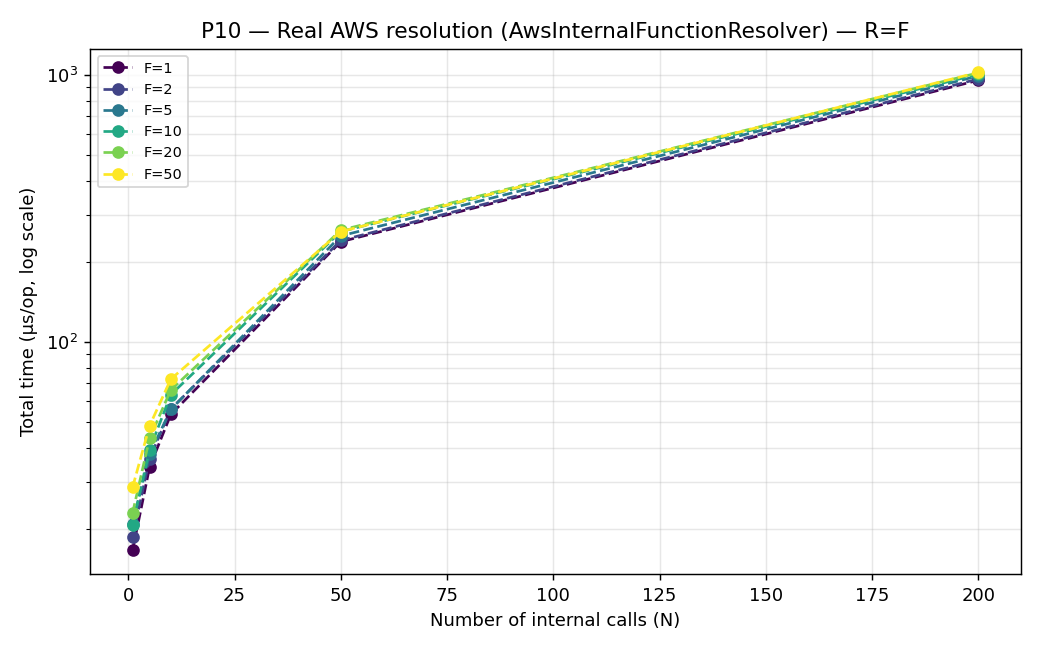
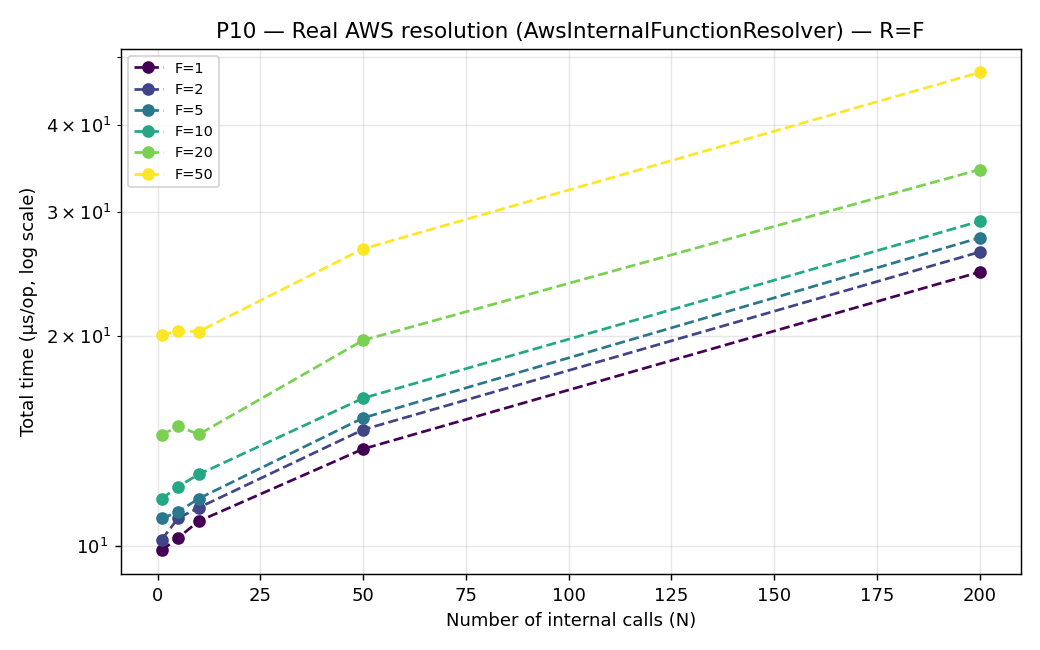
Re-measure P10 and P11 against the silenced resolvers
The two experiments that exercise the production resolvers no longer
describe the code, so they were re-run with -f 3 on the same idle
machine, 24 minutes, and Chapter 7 is rewritten around the result:
29.1 us (AWS) and 81.3 us (GCP) for 200 internal calls against a
ten-function registry, where the printing resolvers cost 1006 and 1344.

The comparison between the providers changes meaning. It was attributed
to logging; with the console silent, GCP is still about four times more
expensive per call (0.35 us against 0.07-0.14) because splitUrl parses
the resolved URL with java.net.URI on every call, where the AWS resolver
only concatenates a prefix onto the ARN it already holds. The reference
resolver of P3 and P8 does the same parsing and sits between the two, at
0.22 us, which closes the explanation.

P10 and P11 now come from a second measurement session. The methodology
says so and shows the two sessions agree where they overlap: the N=1
column of both tables reproduces the per-read cost P6 measured earlier
(9.9 and 10.4 us at R=1 against 10.5; 20.0 and 19.9 at R=50 against
18.3). Threats to Validity states the limit that comparing them with P8
crosses that boundary.

Chapter 8's answer to RQ2 carries the new figures.

Claude-Session: https://claude.ai/code/session_01L8bXyxExCe5htXbCK9fRpz

diff --git a/dissertation/Chapters/chapter7.tex b/dissertation/Chapters/chapter7.tex
@@ -117,11 +117,17 @@ report what the test doubles assume (Section~\ref{sec:eval-threats}).
 Benchmarks were implemented with the Java Microbenchmark Harness (JMH) 1.37, using
 \texttt{AverageTime} mode with results reported in microseconds per operation ($\mu$s/op). Each
 measured value is consumed through a \texttt{Blackhole} to prevent dead-code elimination by the
-JIT compiler. Every figure reported in this chapter comes from one suite run, executed in a single
-session with three JVM forks, three warm-up iterations and five measurement iterations of one
-second each (\texttt{-f 3 -wi 3 -i 5 -w 1 -r 1}); each value is therefore the mean of fifteen
-measured iterations across three JVMs, of already-JIT-compiled code. Values from different
-experiments are directly comparable, since they share the run.
+JIT compiler. Every figure reported in this chapter was measured with three JVM forks, three
+warm-up iterations and five measurement iterations of one second each
+(\texttt{-f 3 -wi 3 -i 5 -w 1 -r 1}), so each value is the mean of fifteen measured iterations
+across three JVMs, of already-JIT-compiled code. All experiments but two come from one run of the
+whole suite. The exceptions are P10 and P11, which were re-measured later the same evening, on the
+same idle machine, after the change to the production resolvers that \S\ref{sec:eval-real-resolvers}
+describes; the rest of the suite does not exercise those classes and was left as measured. The two
+sessions agree where they can be compared: the $N{=}1$ column of P10 and P11, which is one registry
+read and almost nothing else, reproduces the per-read cost that P6 measured in the first session
+($9.9$ and $10.4\,\mu$s at $R{=}1$ against P6's $10.5\,\mu$s; $20.0$ and $19.9\,\mu$s at $R{=}50$
+against P6's $18.3\,\mu$s).
 
 \paragraph{Caveat on absolute values.}
 Measurements were taken on an Apple Silicon laptop running macOS, otherwise idle but not a
@@ -366,38 +372,43 @@ Neither experiment reaches a provider: on AWS the inspector is a local fake that
 registered function, and on GCP the registry holds first-generation \texttt{cloudfunctions.net}
 URLs, so the resolver short-circuits before any Cloud Run call
 (\S\ref{subsec:store-internals}). What both measure is therefore the local part of the cascade.
-The result has the same shape as the already-optimized reference implementation --- cost dominated
-by $N$, growing only mildly with $F$ --- but the per-call constant is an order of magnitude larger:
-about $4.7\,\mu$s per call on AWS and $7.1\,\mu$s on GCP, against the $0.22\,\mu$s that P8's
-optimized path pays for the same snapshot lookup in the same run. The extra work is not the
-registry read, which happens once, but what each production resolver does per call: the validation
-step, and a progress line printed to the console.
+The result has the same shape as the already-optimized reference implementation: a cost that is one
+registry read plus a small constant per call. Reading down the $N{=}1$ column gives the read, which
+grows with $F$ because $R{=}F$; reading along a row gives the per-call work, $0.07$--$0.14\,\mu$s on
+AWS and about $0.35\,\mu$s on GCP. Resolving a 200-call workflow against a registry of 10 functions
+costs $29.1\,\mu$s on AWS and $81.3\,\mu$s on GCP.
 
-That console output is the larger part, and the gap between the two providers is what shows it. On
-the measured path the AWS resolver prints two lines per call and the GCP resolver three, and the
-measured difference --- $2.4\,\mu$s per call --- is almost exactly one line. Attributing about
-$2.3\,\mu$s to each printed line leaves roughly the $0.2\,\mu$s of resolution work that P3
-measures, which accounts for both figures. P10 and P11 therefore quantify the production resolvers
-\emph{as they behave today}, console output included; they are not a measurement of resolution
-logic alone, and the difference between the providers is a difference in logging, not in the
-cascade (\S\ref{sec:eval-threats}).
+An earlier version of these two experiments measured something else. Until this evaluation was
+repeated, both resolvers printed two or three progress lines to the console for every call they
+resolved, inside the method being measured, and that console output was about 95\% of the reported
+time: the same points cost $1\,006\,\mu$s (AWS) and $1\,344\,\mu$s (GCP). Moving those per-call
+messages to \texttt{logger.debug}, which the default logging configuration does not print, produced
+the figures above without changing what the resolvers do. The measurement is reported here because
+the mistake is easy to repeat: an instrumented method measures its instrumentation, and a
+per-call console write costs an order of magnitude more than the resolution it announces.
+
+What remains is a real difference between the providers, not a logging artifact. The AWS resolver
+binds a call by concatenating a prefix onto the ARN it already holds; the GCP resolver parses the
+resolved URL with \texttt{java.net.URI} and rebuilds host and path from it, once per call. The
+reference resolver of P3 and P8 does that same parsing and sits between the two, at
+$0.22\,\mu$s per call, which is what places AWS below it and GCP above it.
 
 \begin{table}[htbp]
   \centering
   \caption{P10 --- AWS provider: resolution time ($\mu$s) of the real resolver
-  (\texttt{Aws\allowbreak Internal\allowbreak Function\allowbreak Resolver}), $R{=}F$, after the
-  single-read optimization was propagated into it.}
+  (\texttt{Aws\allowbreak Internal\allowbreak Function\allowbreak Resolver}), $R{=}F$, with the
+  single-read optimization and without per-call console output.}
   \label{tab:eval-p10}
   \begin{tabular}{lrrrrr}
     \hline
     $F\backslash N$ & 1 & 5 & 10 & 50 & 200 \\
     \hline
-    1  & 16.6 & 34.0 & 53.6 & 238 & 955    \\
-    2  & 18.6 & 36.5 & 56.1 & 240 & 966    \\
-    5  & 20.8 & 38.0 & 55.9 & 250 & 992    \\
-    10 & 20.7 & 39.6 & 63.5 & 259 & 1\,006 \\
-    20 & 22.9 & 43.6 & 66.1 & 262 & 1\,018 \\
-    50 & 28.6 & 48.5 & 72.6 & 259 & 1\,022 \\
+    1  & 9.9  & 10.3 & 10.9 & 13.8 & 24.6 \\
+    2  & 10.2 & 11.0 & 11.4 & 14.7 & 26.3 \\
+    5  & 11.0 & 11.2 & 11.7 & 15.3 & 27.6 \\
+    10 & 11.7 & 12.2 & 12.7 & 16.3 & 29.1 \\
+    20 & 14.4 & 14.8 & 14.4 & 19.7 & 34.5 \\
+    50 & 20.0 & 20.3 & 20.3 & 26.6 & 47.5 \\
     \hline
   \end{tabular}
 \end{table}
@@ -405,19 +416,19 @@ cascade (\S\ref{sec:eval-threats}).
 \begin{table}[htbp]
   \centering
   \caption{P11 --- GCP provider: resolution time ($\mu$s) of the real resolver
-  (\texttt{Workflow\allowbreak Internal\allowbreak Function\allowbreak Resolver}), $R{=}F$, after
-  the single-read optimization was propagated into it.}
+  (\texttt{Workflow\allowbreak Internal\allowbreak Function\allowbreak Resolver}), $R{=}F$, with
+  the single-read optimization and without per-call console output.}
   \label{tab:eval-p11}
   \begin{tabular}{lrrrrr}
     \hline
     $F\backslash N$ & 1 & 5 & 10 & 50 & 200 \\
     \hline
-    1  & 20.7 & 49.7 & 74.9 & 364 & 1\,439 \\
-    2  & 20.9 & 48.9 & 74.5 & 360 & 1\,445 \\
-    5  & 21.5 & 49.6 & 77.4 & 354 & 1\,376 \\
-    10 & 20.5 & 46.1 & 74.9 & 335 & 1\,344 \\
-    20 & 23.8 & 50.4 & 80.4 & 344 & 1\,400 \\
-    50 & 29.8 & 58.0 & 86.7 & 345 & 1\,377 \\
+    1  & 10.4 & 12.1 & 13.9 & 27.9 & 83.3 \\
+    2  & 10.6 & 11.9 & 13.8 & 27.5 & 78.8 \\
+    5  & 11.3 & 12.7 & 14.1 & 28.4 & 79.8 \\
+    10 & 12.1 & 13.4 & 15.1 & 28.8 & 81.3 \\
+    20 & 14.4 & 15.5 & 16.8 & 31.6 & 84.4 \\
+    50 & 19.9 & 20.9 & 22.8 & 36.8 & 91.3 \\
     \hline
   \end{tabular}
 \end{table}
@@ -789,10 +800,10 @@ call-times-registry-size product, reducing resolution to one read of the registr
 $0.22\,\mu$s per internal call, a speedup of $200\times$ in the worst corner measured
 (P7, P8, P9) --- a full \emph{identify (P3/P6) $\rightarrow$ fix $\rightarrow$ quantify (P7)} loop.
 Third, this optimization has since been propagated to the production resolvers (P10, P11), which
-now show the same dominated-by-$N$ shape as the optimized reference path rather than the
-call-times-registry-size cost they used to pay; their per-call constant is an order of magnitude
-larger, but that difference is the progress line each resolver prints per call, not resolution
-work.
+now show the same one-read-plus-a-constant shape as the optimized reference path rather than the
+call-times-registry-size cost they used to pay: $29\,\mu$s (AWS) and $81\,\mu$s (GCP) for a
+200-call workflow. The difference between the two providers is the per-call URL parsing the GCP
+resolver performs and the AWS one does not.
 Fourth, the AWS agnostic packaging layer adds negligible size (S1). Fifth, resolution cost tracks
 the number of internal calls rather than the workflow's total call count: external calls add only
 the shared tree-traversal cost, never a registry lookup (P15, P16). Sixth, neither nesting depth
@@ -826,12 +837,12 @@ points whose intervals are wide are identified where they appear and are not use
 claim. File I/O dominates several experiments, so storage speed, not processor speed, is the
 hardware factor these figures are most sensitive to.
 
-A second limit is that the production resolvers were measured as they behave today, printing a
-progress line per resolved call. In P10 and P11 that console output accounts for most of the
-per-call cost --- around $2.3\,\mu$s per printed line, against $0.22\,\mu$s of resolution work ---
-so those two experiments should be read as the cost of the resolvers in their current form, not as
-the cost of resolution. Silencing the output, or routing it through the logger already present in
-both classes, would bring them close to the reference path of P8.
+A second limit is one of provenance. P10 and P11 come from a second measurement session, run after
+the per-call console output was removed from both resolvers, while every other experiment comes
+from the earlier run of the same evening. The two sessions agree on the quantity they share --- the
+cost of one registry read (\S\ref{sec:eval-methodology}) --- but the comparison between P10, P11
+and the reference path of P8 crosses that boundary and should be read as an order-of-magnitude
+comparison rather than an exact one.
 
 The evaluation is also intentionally local-only: it quantifies the resolution and packaging
 overhead, not the end-to-end cloud deployment latency, which depends on provider-side behaviour

diff --git a/dissertation/Chapters/chapter8.tex b/dissertation/Chapters/chapter8.tex
@@ -49,10 +49,9 @@ The two research questions of Section~\ref{sec:int_objectives} are answered as f
   regions (Section~\ref{sec:eval-correctness}). The evidence comes from unit tests that simulate
   the provider, and on GCP bindings to first-generation Cloud Functions are not validated live.
   \item \textbf{RQ2 (overhead)} --- small. In the production resolvers, resolving a workflow of 200
-  internal calls takes about one millisecond locally, growing linearly with the number of internal
-  calls, while the registry is read once per deployment
-  (Section~\ref{sec:eval-discussion}); the reference resolver, which does not print a progress line
-  per call, does the same work in $55\,\mu$s. These figures exclude the provider calls that
+  internal calls against a registry of ten functions takes $29\,\mu$s on AWS and $81\,\mu$s on GCP,
+  growing linearly with the number of internal calls, while the registry is read once per
+  deployment (Section~\ref{sec:eval-discussion}). These figures exclude the provider calls that
   validation, discovery and deployment make, which are counted in
   Section~\ref{sec:eval-api-calls}.
 \end{itemize}

diff --git a/TODO.md b/TODO.md
@@ -138,9 +138,10 @@ drift as text is edited, so search for the quoted phrases.
       3. **Never run it without that include list.** `BenchmarkAmazonDeployment` calls
          `createStateMachine` and `BenchmarkGoogleDeployment` calls `deploy` — they create real
          resources on AWS/GCP.
-      4. **Filter stdout**: `| grep --line-buffered -E '^#|^Iteration|^Result|^Benchmark'`. The
-         resolvers `println` on every resolved call, so an unfiltered log grows ~1 GB/min (it hit
-         2.1 GB in one minute before being killed).
+      4. **Filter stdout**: `| grep --line-buffered -E '^#|^Iteration|^Result|^Benchmark'`. Já não é
+         crítico desde 2026-09-12 (os resolvers deixaram de imprimir por chamada), mas antes disso um
+         log não filtrado crescia ~1 GB/min (chegou a 2,1 GB num minuto antes de ser morto), por isso
+         mantém o filtro.
       5. JMH writes the CSV only when the whole run ends, so an interrupted run leaves nothing.
          Write it to a scratch path and only copy into `benchmark/results/` once it is complete,
          so the current CSVs survive a failed attempt.
@@ -149,10 +150,19 @@ drift as text is edited, so search for the quoted phrases.
       providers — o resolver AWS imprime 2 linhas por chamada e o GCP 3, e a diferença medida
       (2,4 µs/chamada) é exatamente uma linha. Está dito no parágrafo P10/P11 e nos "Threats to
       Validity". Nota: P3 e P8–P19 usam o `OptimizedEndpointResolver` do módulo de benchmarks, que
-      **não** imprime, por isso só P10/P11 são afetados. **Por decidir (a pedir ao utilizador):**
-      silenciar os `println` dos resolvers de produção, ou passá-los para o `logger` que ambas as
-      classes já têm, aproximaria P10/P11 do caminho de referência do P8 — é alterar código de
-      produção.
+      **não** imprime, por isso só P10/P11 foram afetados.
+- [x] **Resolvido 2026-09-12:** as mensagens por chamada dos dois resolvers de produção passaram de
+      `println`/`logger.info` para `logger.debug` (que ao nível INFO por omissão nem avalia o
+      lambda); as mensagens raras — descoberta por regiões, deployment QuickFaaS, drift, erros —
+      continuam a ser impressas. P10/P11 foram re-medidos com `-f 3` (24 min) e caíram de 1006→29,1 µs
+      (AWS) e 1344→81,3 µs (GCP) em F=10/N=200. Os 45 testes dos resolvers continuam a passar.
+      **Consequência a lembrar:** P10/P11 passam a vir de uma segunda sessão de medição; está dito na
+      Metodologia e nos "Threats to Validity", com a prova de que as duas sessões são compatíveis (a
+      coluna N=1 do P10/P11 reproduz o custo de leitura do P6).
+- [x] **Diferença AWS/GCP explicada:** depois de calados os `println`, o GCP continua ~4× mais caro
+      por chamada (0,35 vs 0,07–0,14 µs) porque `splitUrl` faz `URI(url)` a cada chamada, onde o AWS
+      só concatena `lambda://` ao ARN. O resolver de referência (P3/P8), que também faz o parsing,
+      fica no meio, a 0,22 µs.
 - [x] P3: explained as the single-read resolver with R=1 (per-call cost = snapshot lookup + URL
       split + node rebuild), no longer as a re-read per call.
 - [x] P6: R≈320 is derived in the P6 paragraph (0.56·R = 180), and the Discussion only cites it.
